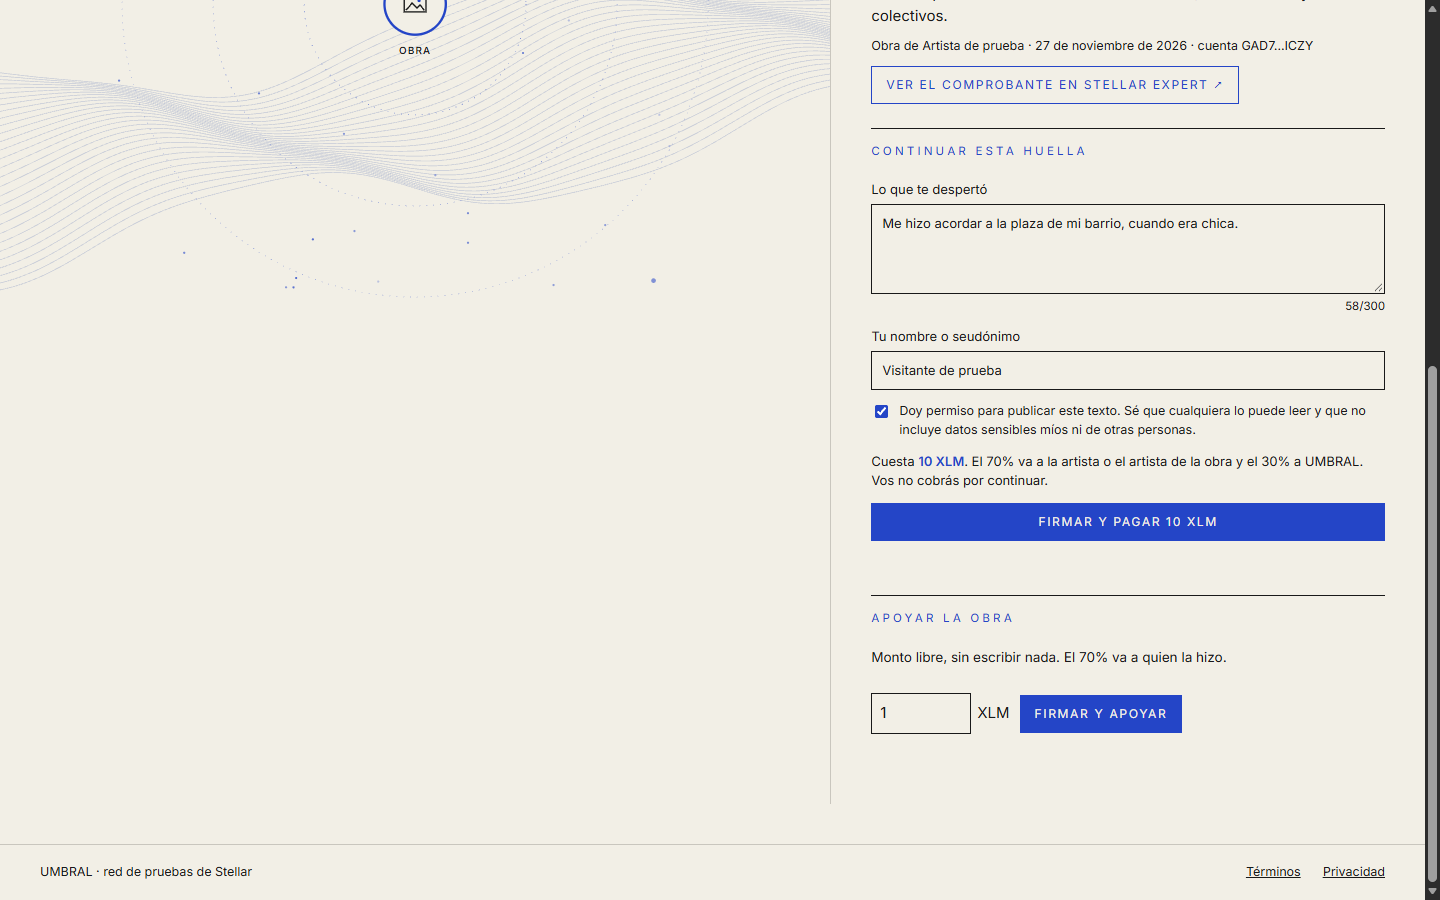
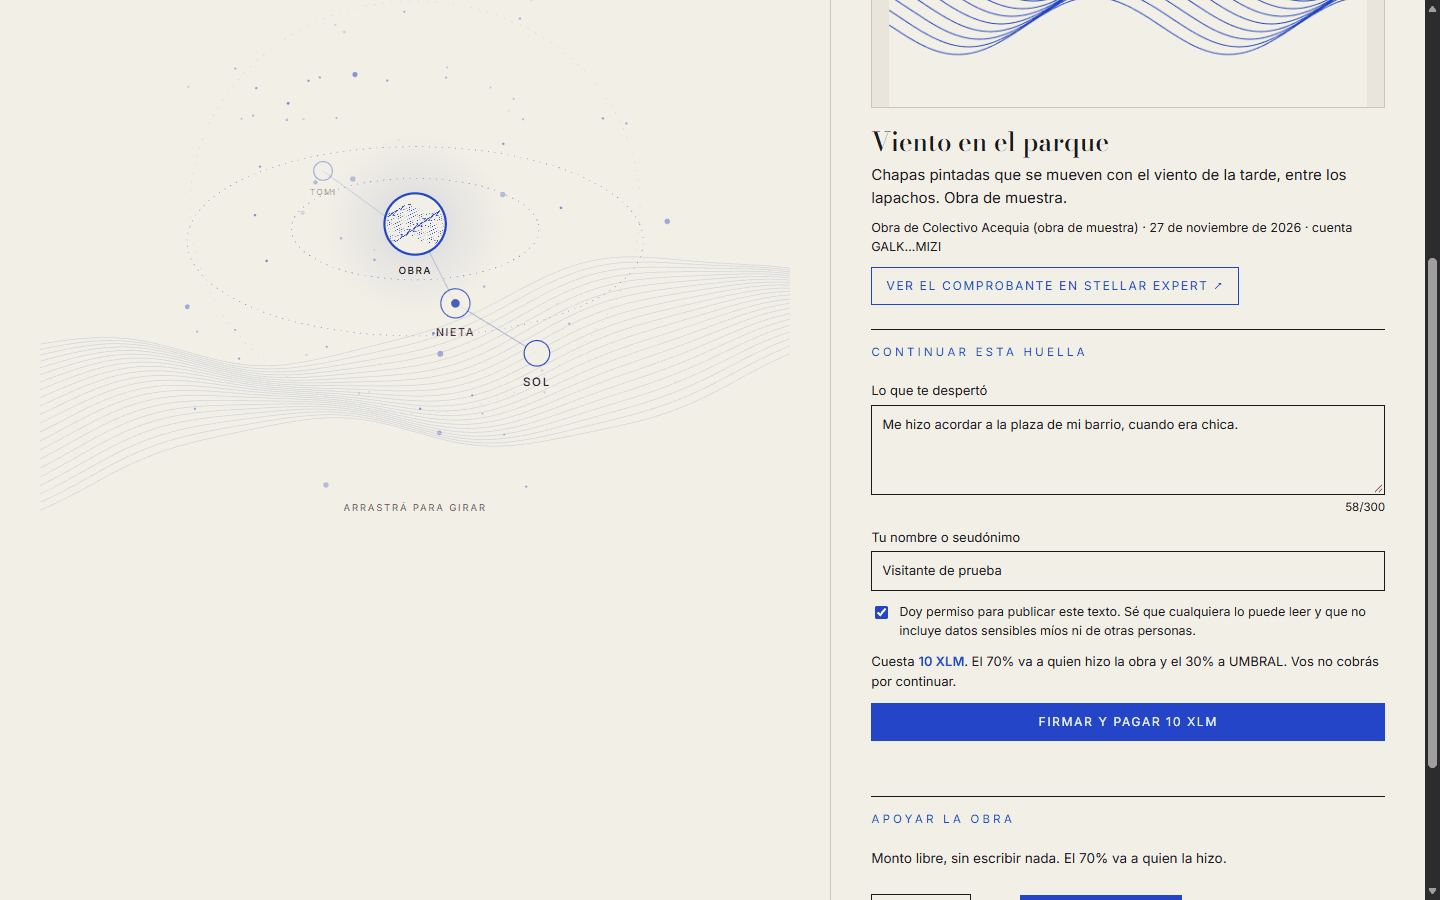
README: capturas nuevas de la interfaz actual (exponer, continuar, constelación 3D y sello), más livianas; la demo suma la placa con QR y la ficha en el celular

diff --git a/docs/demo-jurado.md b/docs/demo-jurado.md
@@ -7,13 +7,14 @@ Antes de grabar:
 - Una cuenta de artista y una del público, las dos con XLM de prueba. Moneda elegida en la app: XLM.
 - La obra de la demo lista para exponer: título, descripción y foto. Si es una escultura de Resistencia, con permiso de su escultor: en Argentina una obra en la calle sigue teniendo autor.
 - Una pestaña con Stellar Expert para el cierre.
+- La placa con QR de una obra de muestra (impresa o en otra pantalla) y un celular para escanearla.
 
 ## Guion
 
 | Minuto | Qué se ve | Qué se dice |
 |---|---|---|
 | 0:00 a 0:10 | Portada: el nombre, "Más allá de lo tangible." y la constelación | "umbral es un museo vivo: los artistas exponen obras y el público las continúa con palabras." |
-| 0:10 a 0:30 | La ficha de una obra de muestra en la app (sin fotos de esculturas reales) | "En Resistencia hay más de 650 esculturas en la calle. El escultor cobra una vez, cuando la hace, y nunca más sabe qué despierta su obra ni recibe nada por ella." |
+| 0:10 a 0:30 | Con el celular se escanea la placa con QR de una obra de muestra (sin fotos de esculturas reales). Se abre la ficha: arriba el título y la miniatura, el aviso "✓ Placa firmada por la cuenta que expuso esta obra" y debajo la constelación | "En Resistencia hay más de 650 esculturas en la calle. El escultor cobra una vez, cuando la hace, y nunca más sabe qué despierta su obra ni recibe nada por ella." |
 | 0:30 a 0:50 | La artista entra con su billetera, va a "Exponer una obra", completa título, descripción y foto. Se ve el precio, 20 XLM. Firma | "La artista expone su obra. Ve el precio antes de firmar y la obra queda registrada a su nombre en Stellar." |
 | 0:50 a 1:15 | Otra persona escribe lo que la obra le despertó. Se ve el aviso del 70%. Firma y aparece un punto nuevo. Después apoya con 5 XLM | "Alguien del público deja su huella: paga 10 XLM y el 70% es para la artista. Quien escribe no cobra. También puede apoyar con lo que quiera: 5 XLM." |
 | 1:15 a 1:35 | La artista entra a "Cobrar": saldo **10,5 XLM**. Toca "Retirar XLM" y queda en 0 | "70% de 10 son 7, y 70% de 5 son 3,5. La artista cobra 10,5 XLM cuando quiere, sin pedirle permiso a nadie." |

diff --git a/README.md b/README.md
@@ -51,10 +51,10 @@ Así se ve en la red de pruebas, con una obra de prueba:
 
 | | |
 |---|---|
-| ![Exponer una obra: quien la sube declara de quién son los derechos antes de firmar](docs/capturas/01-exponer.png) | ![Continuar una obra: el aviso dice que el 70% va a quien la expuso](docs/capturas/02-continuar.png) |
-| **1. Exponer.** Antes de firmar, quien sube la obra declara de quién son los derechos. | **2. Continuar.** El aviso dice cuánto cuesta y que el 70% va a quien expuso la obra. |
-| ![La constelación: la obra en el centro y la huella unida con una línea](docs/capturas/03-constelacion.png) | ![Ficha de una obra expuesta por invitación de una sala, con el sello Estuve ahí y su audio](docs/capturas/04-sello.png) |
-| **3. La constelación.** La obra queda en el centro y cada huella sale de la que continúa. | **4. Estuve ahí.** Una sala invitó a la artista y pagó su obra con su fondo. El sello sale del comprobante en la red: no se puede inventar. |
+| ![Exponer una obra: quien la sube elige de quién son los derechos y ve a la derecha cómo va a quedar la obra y cuánto cuesta](docs/capturas/01-exponer.png) | ![Continuar una obra: el formulario dice que cuesta 10 XLM y que el 70% va a quien hizo la obra](docs/capturas/02-continuar.png) |
+| **1. Exponer.** Antes de firmar, quien sube la obra elige de quién son los derechos y ve cómo va a quedar y cuánto cuesta. | **2. Continuar.** Antes de firmar dice cuánto cuesta y que el 70% va a quien hizo la obra. Quien continúa no cobra. |
+| ![La constelación en 3D: la obra en el centro, sus huellas unidas con líneas y el rótulo de la huella elegida](docs/capturas/03-constelacion.png) | ![Ficha de una obra expuesta por invitación de una sala, con el sello Estuve ahí y su audio](docs/capturas/04-sello.png) |
+| **3. La constelación.** Gira en 3D: la obra queda en el centro y cada huella sale de la que continúa. Al tocar una, se lee su texto. | **4. Estuve ahí.** Una sala invitó a la artista y pagó su obra con su fondo. El sello sale del comprobante en la red: no se puede inventar. |
 
 ## Qué nos diferencia
 
